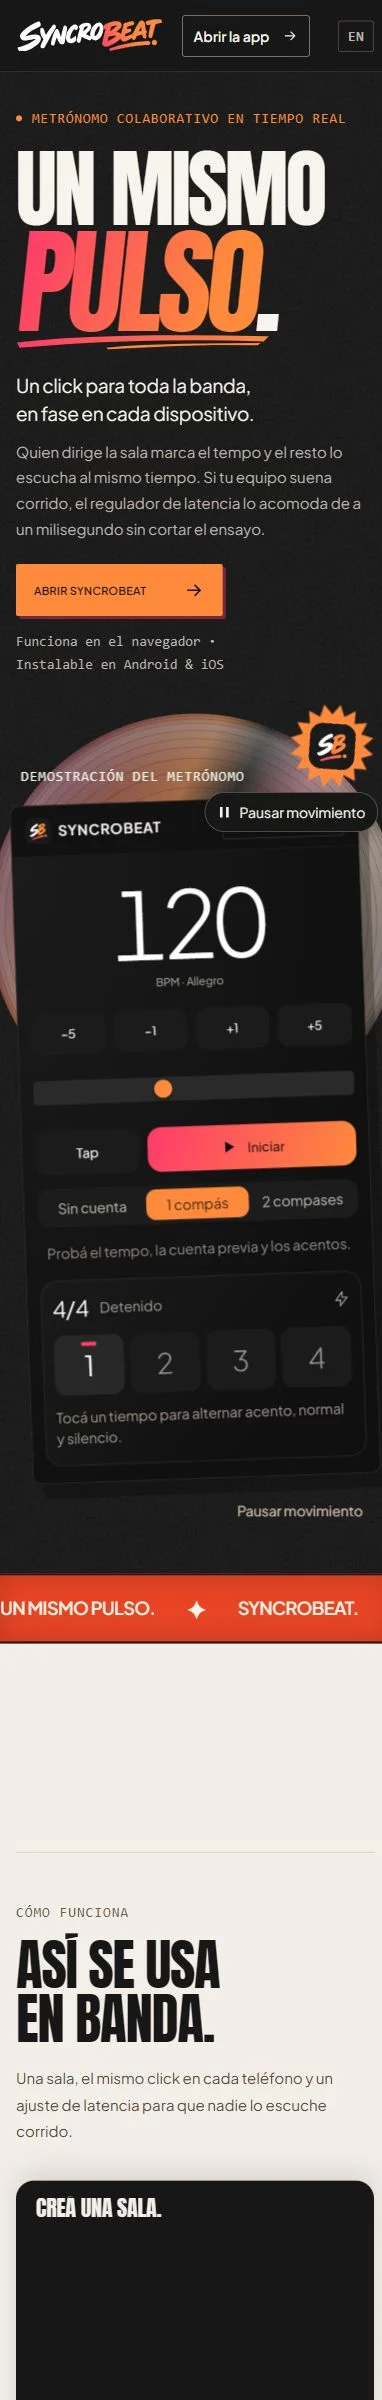
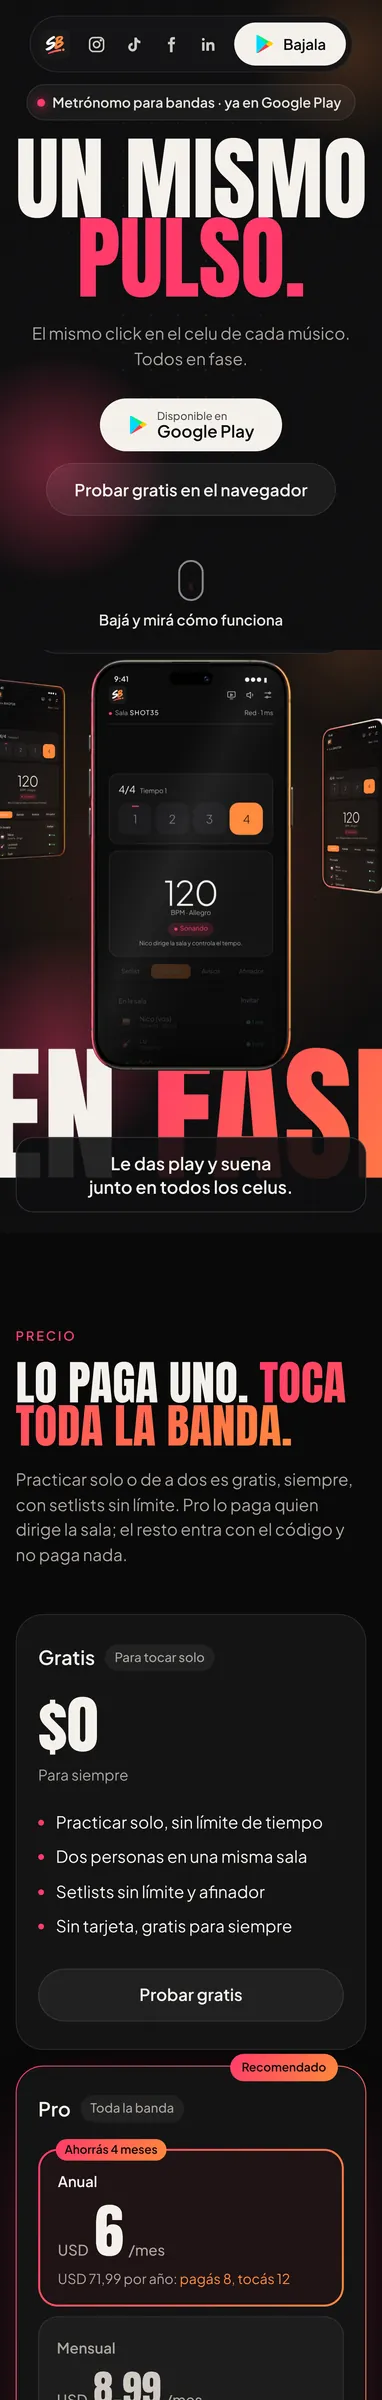
Capturas de SyncroBeat con la web actual
- Proyectos, tarjeta del anillo, fragmento de "Qué hacemos" y pantalla de la
  app web: todo pasa a la web nueva de syncrobeat.online (inicio "Un mismo
  pulso", Google Play, sección de precios).
- Caso: ahora dice que está en Google Play y que en iPhone se usa desde
  Safari, y suma LinkedIn a las redes.
- Las imágenes llevan ?v=2 para que no se vean las viejas guardadas en caché.

Claude-Session: https://claude.ai/code/session_01X92eMmNMMYtiQdFhcK2Va7

diff --git a/index.html b/index.html
@@ -100,7 +100,7 @@
           <span>Diseñamos marcas, webs, apps y redes</span><i class="spark"></i><span>para lo que viene</span><i class="spark"></i>
         </div></div>
         <div class="ring-tilt"><div class="ring">
-          <div class="card" style="--i:0"><img src="assets/img/card-syncrobeat.webp" width="380" height="676" alt="" decoding="async"></div>
+          <div class="card" style="--i:0"><img src="assets/img/card-syncrobeat.webp?v=2" width="380" height="676" alt="" decoding="async"></div>
           <div class="card card-ig" style="--i:1"><span class="ig-top"><img src="assets/img/avatar-aldeatermalcopahue.webp" width="144" height="144" alt="" decoding="async"><b>aldeatermalcopahue</b></span><img class="ig-shot" src="assets/img/post-aldeatermalcopahue.webp" width="300" height="400" alt="" decoding="async"><span class="ig-icons"><svg viewBox="0 0 24 24"><path d="M12 20s-7-4.4-9-8.6C1.6 8.2 3.6 5 6.8 5c2 0 3.4 1.1 4.2 2.4h2C13.8 6.1 15.2 5 17.2 5c3.2 0 5.2 3.2 3.8 6.4C19 15.6 12 20 12 20z"/></svg><svg viewBox="0 0 24 24"><path d="M20.5 12a8.5 8.5 0 1 1-3.3-6.7A8.5 8.5 0 0 1 20.5 12zM20.5 20.5l-2.2-4.3"/></svg><svg viewBox="0 0 24 24"><path d="M21 3 3 10l7 3 3 7zM10 13l5-5"/></svg></span></div>
           <div class="card card-brand" style="--i:2"><span class="card-mark">D<i>.</i></span><span class="card-text">Marcas que <b>se recuerdan</b></span></div>
           <div class="card" style="--i:3"><img src="assets/img/card-copahue.webp" width="380" height="676" alt="" decoding="async"></div>
@@ -153,7 +153,7 @@
       <img class="shard" data-x="-44" data-y="24" data-z="3150" src="assets/img/shard-web-lumina.webp" width="560" height="420" alt="" loading="lazy" decoding="async">
       <img class="shard" data-x="38" data-y="-22" data-z="3375" src="assets/img/shard-cuenta-somoscopahue.webp" width="560" height="420" alt="" loading="lazy" decoding="async">
       <img class="shard" data-x="-40" data-y="-6" data-z="3600" src="assets/img/shard-web-nova.webp" width="560" height="420" alt="" loading="lazy" decoding="async">
-      <img class="shard" data-x="46" data-y="16" data-z="3825" src="assets/img/shard-web-syncrobeat.webp" width="560" height="420" alt="" loading="lazy" decoding="async">
+      <img class="shard" data-x="46" data-y="16" data-z="3825" src="assets/img/shard-web-syncrobeat.webp?v=2" width="560" height="420" alt="" loading="lazy" decoding="async">
     </div>
     <div class="fly-stage">
       <div class="stage stage-intro">
@@ -210,7 +210,7 @@
         <span class="panel-go">Visitar sitio <svg aria-hidden="true" viewBox="0 0 20 20"><path d="M6 14 14 6m-6 0h6v6"/></svg></span>
       </a>
       <a class="panel" id="syncrobeat" href="https://syncrobeat.online/" target="_blank" rel="noopener">
-        <picture><source media="(max-width: 860px)" srcset="assets/img/panel-syncrobeat.webp"><img src="assets/img/web-syncrobeat.webp" alt="Página de inicio de SyncroBeat" width="1440" height="900" loading="lazy" decoding="async"></picture>
+        <picture><source media="(max-width: 860px)" srcset="assets/img/panel-syncrobeat.webp?v=2"><img src="assets/img/web-syncrobeat.webp?v=2" alt="Página de inicio de SyncroBeat" width="1440" height="900" loading="lazy" decoding="async"></picture>
         <span class="panel-meta"><span>Sitio y app publicados</span><span>Metrónomo para bandas, con suscripciones</span></span>
         <h3>SyncroBeat</h3>
         <span class="panel-go">Visitar sitio <svg aria-hidden="true" viewBox="0 0 20 20"><path d="M6 14 14 6m-6 0h6v6"/></svg></span>
@@ -264,7 +264,7 @@
       <div class="kinds-stage" data-tilt="7" aria-hidden="true">
         <div class="tilt">
           <div class="kind-visual is-on" data-kind="kind-web">
-            <span class="phone status-dark app-phone"><span class="device-frame"><span class="device-screen"><img class="app-screen" src="assets/img/screen-syncrobeat.webp" width="382" height="2400" alt="" loading="lazy" decoding="async"></span><span class="phone-island"></span><span class="phone-home"></span></span></span>
+            <span class="phone status-dark app-phone"><span class="device-frame"><span class="device-screen"><img class="app-screen" src="assets/img/screen-syncrobeat.webp?v=2" width="382" height="2400" alt="" loading="lazy" decoding="async"></span><span class="phone-island"></span><span class="phone-home"></span></span></span>
             <span class="float float-1"><b>Instalar app</b><small>Agregar a pantalla de inicio</small></span>
             <span class="float float-2"><b>Sin descargas</b><small>Se abre desde un link</small></span>
           </div>
@@ -302,10 +302,10 @@
         <h3 id="case-title">Caso real: SyncroBeat</h3>
         <p>Un metrónomo para bandas. Quien dirige marca el tempo y toda la banda lo escucha en fase, cada uno en su celular.</p>
         <dl class="facts">
-          <div><dt>Tipo</dt><dd>App web instalable en Android e iOS</dd></div>
+          <div><dt>Tipo</dt><dd>App en Google Play; en iPhone se usa desde Safari</dd></div>
           <div><dt>Hicimos</dt><dd>Sitio web y app</dd></div>
           <div><dt>Incluye</dt><dd>Sincronización en tiempo real y planes de suscripción</dd></div>
-          <div><dt>Redes</dt><dd class="case-social"><a href="https://instagram.com/syncrobeat.app" target="_blank" rel="noopener">Instagram</a><a href="https://tiktok.com/@syncrobeat" target="_blank" rel="noopener">TikTok</a><a href="https://www.facebook.com/profile.php?id=61595494531270" target="_blank" rel="noopener">Facebook</a></dd></div>
+          <div><dt>Redes</dt><dd class="case-social"><a href="https://instagram.com/syncrobeat.app" target="_blank" rel="noopener">Instagram</a><a href="https://tiktok.com/@syncrobeat" target="_blank" rel="noopener">TikTok</a><a href="https://www.facebook.com/profile.php?id=61595494531270" target="_blank" rel="noopener">Facebook</a><a href="https://www.linkedin.com/company/syncrobeat/" target="_blank" rel="noopener">LinkedIn</a></dd></div>
         </dl>
         <a class="text-link" href="https://syncrobeat.online/" target="_blank" rel="noopener">Ver SyncroBeat <svg aria-hidden="true" viewBox="0 0 20 20"><path d="M6 14 14 6m-6 0h6v6"/></svg></a>
       </div>
